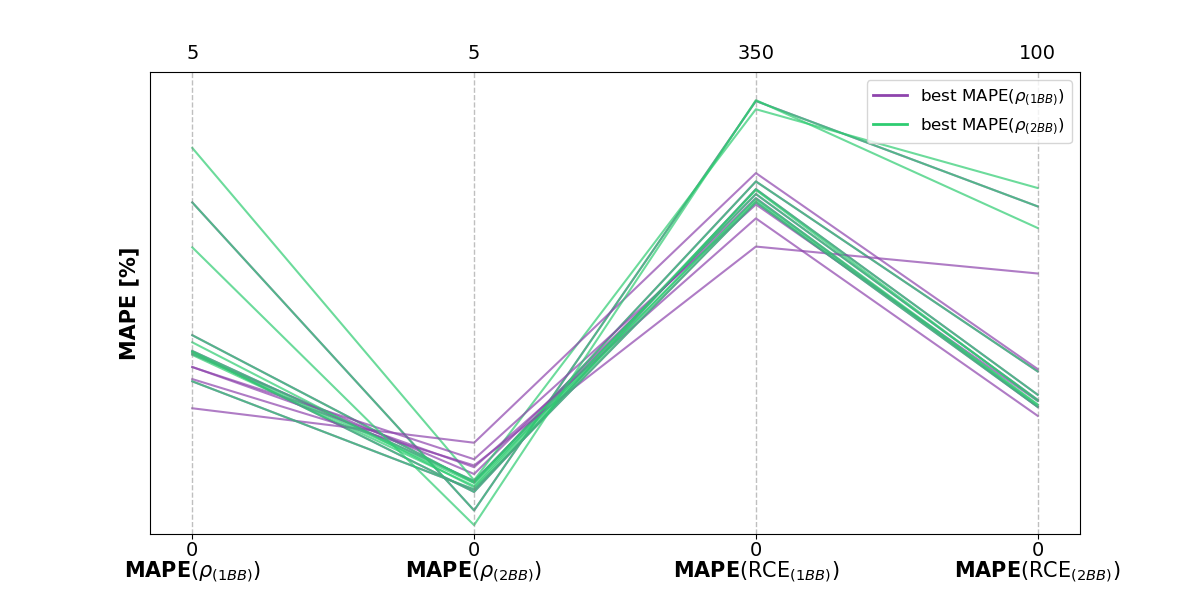
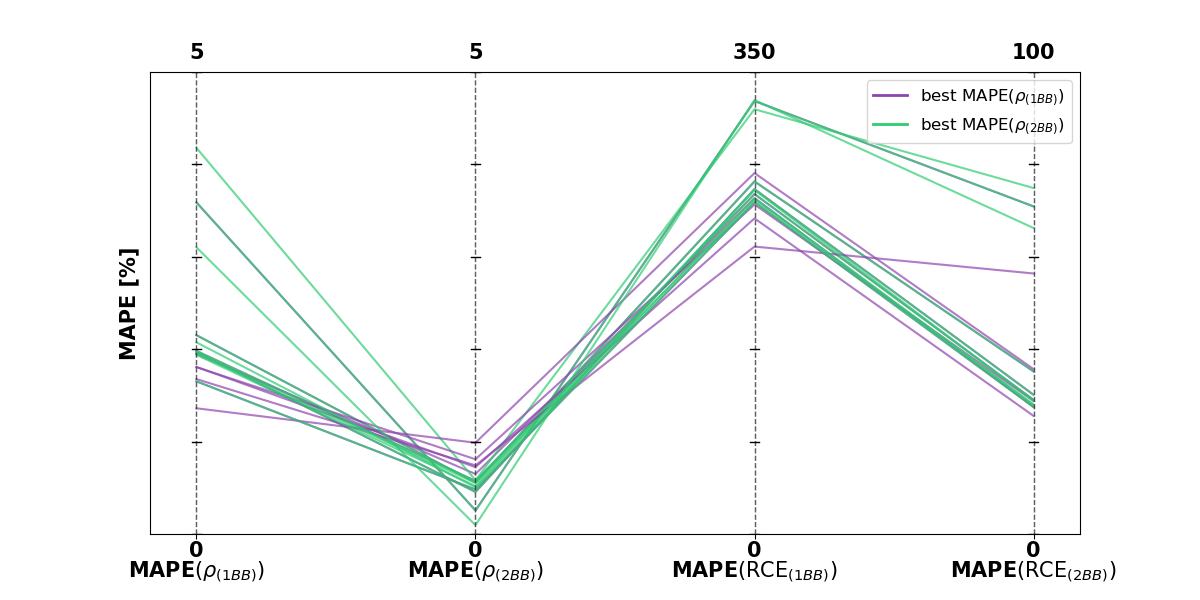
updated figures

diff --git a/40_analysis/21_showBestOptResults.py b/40_analysis/21_showBestOptResults.py
@@ -191,11 +191,20 @@ def mkPlotPC2(df, substance):
   plt.ylim(0, 1)
   plt.yticks([])
   
-   # Annotate per-axis scales
+  # Annotate per-axis scales
+  tick_length = 0.03  # how long the ticks should be
   for i, col in enumerate(value_cols):
+    # Draw the main vertical axis line
+    plt.plot([i, i], [0, 1], color='black', linestyle='--', linewidth=1, alpha=0.5)
+    
+    # Draw ticks at normalized positions (e.g., bottom, middle, top)
+    num_ticks = 6
+    for t in np.linspace(0, 1, num_ticks):
+        plt.plot([i - tick_length/2, i + tick_length/2], [t, t], color='black', linewidth=1)
+        
     lo, hi = y_limits[col]
-    plt.text(i, -0.015, f"{lo}", ha='center', va='top', fontsize=14)
-    plt.text(i, 1.02, f"{hi}", ha='center', va='bottom', fontsize=14)
+    plt.text(i, -0.015, f"{lo}", ha='center', va='top', fontsize=15, fontweight='bold')
+    plt.text(i, 1.02, f"{hi}", ha='center', va='bottom', fontsize=15, fontweight='bold')
   
   legend_elements = [
     Line2D([0], [0], color='#377eb8', lw=2, label='NNR surrog. Models'),
@@ -294,16 +303,28 @@ def mkPlotPC3(df, prop, saveOrShow, substance):
   for xi in x:
     plt.axvline(x=xi, color='gray', linestyle='--', linewidth=1, alpha=0.5)
     
+    
   #plt.xticks(x, value_cols)
   plt.xticks(x, xlbls, fontsize=15, fontweight='bold')
   plt.tick_params(axis='x', pad=15)
   plt.ylim(0, 1)
   plt.yticks([])
+  
   # Annotate per-axis scales
+  tick_length = 0.03  # how long the ticks should be
   for i, col in enumerate(value_cols):
+    # Draw the main vertical axis line
+    plt.plot([i, i], [0, 1], color='black', linestyle='--', linewidth=1, alpha=0.5)
+    
+    # Draw ticks at normalized positions (e.g., bottom, middle, top)
+    num_ticks = 6
+    for t in np.linspace(0, 1, num_ticks):
+        plt.plot([i - tick_length/2, i + tick_length/2], [t, t], color='black', linewidth=1)
+        
     lo, hi = y_limits[col]
-    plt.text(i, -0.015, f"{lo}", ha='center', va='top', fontsize=14)
-    plt.text(i, 1.02, f"{hi}", ha='center', va='bottom', fontsize=14)
+    plt.text(i, -0.015, f"{lo}", ha='center', va='top', fontsize=15, fontweight='bold')
+    plt.text(i, 1.02, f"{hi}", ha='center', va='bottom', fontsize=15, fontweight='bold')
+    
 
   plt.legend(handles=legend_elements, loc='upper right', fontsize=12)
   plt.ylabel("MAPE [%]", fontsize=15, fontweight='bold')
@@ -357,12 +378,12 @@ def mkPlotScatter1(df, saveOrShow, substance):
     plt.scatter(thisX, thisY, color=colors[k], label=thisLBLs[k])
 
   
-  plt.xlabel(xlbl, fontsize=15, fontweight='bold')
-  plt.ylabel(ylbl, fontsize=15, fontweight='bold')
+  plt.xlabel(xlbl, fontsize=20, fontweight='bold')
+  plt.ylabel(ylbl, fontsize=20, fontweight='bold')
   plt.xlim(xlims)
   plt.ylim(ylims)
-  plt.xticks(fontsize=13)
-  plt.yticks(fontsize=13)
+  plt.xticks(fontsize=15)
+  plt.yticks(fontsize=15)
   plt.legend()
   plt.tight_layout()
   
@@ -411,12 +432,12 @@ def mkPlotScatter2(df, saveOrShow, substance):
     plt.scatter(thisX, thisY, color=colors[k], label=thisLBLs[k])
 
   
-  plt.xlabel(xlbl, fontsize=15, fontweight='bold')
-  plt.ylabel(ylbl, fontsize=15, fontweight='bold')
+  plt.xlabel(xlbl, fontsize=20, fontweight='bold')
+  plt.ylabel(ylbl, fontsize=20, fontweight='bold')
   plt.xlim(xlims)
   plt.ylim(ylims)
-  plt.xticks(fontsize=13)
-  plt.yticks(fontsize=13)
+  plt.xticks(fontsize=15)
+  plt.yticks(fontsize=15)
   plt.legend()
   plt.tight_layout()
   
@@ -540,14 +561,14 @@ if __name__ == "__main__":
   #print(f'{dfSummary2Bro}')
   
  
-  #plt = mkPlotPC3(dfSummaryBoth, 'density', saveOrShow, 'both')
-  #plt = mkPlotPC3(dfSummaryBoth, 'RCE', saveOrShow, 'both')
-  #plt = mkPlotPC2(dfSummaryBoth, 'both')
+  plt = mkPlotPC3(dfSummaryBoth, 'density', saveOrShow, 'both')
+  plt = mkPlotPC3(dfSummaryBoth, 'RCE', saveOrShow, 'both')
+  plt = mkPlotPC2(dfSummaryBoth, 'both')
   
-  plt = mkPlotScatter1(dfSummary1Bro, saveOrShow, '1-bromobutane')
-  plt = mkPlotScatter2(dfSummary1Bro, saveOrShow, '1-bromobutane')
-  plt = mkPlotScatter1(dfSummary2Bro, saveOrShow, '2-bromobutane')
-  plt = mkPlotScatter2(dfSummary2Bro, saveOrShow, '2-bromobutane')
+  #plt = mkPlotScatter1(dfSummary1Bro, saveOrShow, '1-bromobutane')
+  #plt = mkPlotScatter2(dfSummary1Bro, saveOrShow, '1-bromobutane')
+  #plt = mkPlotScatter1(dfSummary2Bro, saveOrShow, '2-bromobutane')
+  #plt = mkPlotScatter2(dfSummary2Bro, saveOrShow, '2-bromobutane')
   if saveOrShow == 'show':
     plt.show()
         

diff --git a/40_analysis/26_plotOptedFFPras.py b/40_analysis/26_plotOptedFFPras.py
@@ -93,11 +93,20 @@ def mkPlotPC(df):
   plt.ylim(0, 1)
   plt.yticks([])
   
-   # Annotate per-axis scales
+  # Annotate per-axis scales
+  tick_length = 0.03  # how long the ticks should be
   for i, col in enumerate(value_cols):
+    # Draw the main vertical axis line
+    plt.plot([i, i], [0, 1], color='black', linestyle='--', linewidth=1, alpha=0.5)
+    
+    # Draw ticks at normalized positions (e.g., bottom, middle, top)
+    num_ticks = 6
+    for t in np.linspace(0, 1, num_ticks):
+        plt.plot([i - tick_length/2, i + tick_length/2], [t, t], color='black', linewidth=1)
+        
     lo, hi = y_limits[col]
-    plt.text(i, -0.015, f"{lo}", ha='center', va='top', fontsize=14)
-    plt.text(i, 1.02, f"{hi}", ha='center', va='bottom', fontsize=14)
+    plt.text(i, -0.015, f"{lo}", ha='center', va='top', fontsize=15, fontweight='bold')
+    plt.text(i, 1.02, f"{hi}", ha='center', va='bottom', fontsize=15, fontweight='bold')
   
   legend_elements = [
     Line2D([0], [0], color='#377eb8', lw=2, label='NNR surrog. Models'),
@@ -165,11 +174,20 @@ def mkPlotPC2(df1, df2):
   plt.ylim(0, 1)
   plt.yticks([])
   
-   # Annotate per-axis scales
+  # Annotate per-axis scales
+  tick_length = 0.03  # how long the ticks should be
   for i, col in enumerate(value_cols):
+    # Draw the main vertical axis line
+    plt.plot([i, i], [0, 1], color='black', linestyle='--', linewidth=1, alpha=0.5)
+    
+    # Draw ticks at normalized positions (e.g., bottom, middle, top)
+    num_ticks = 6
+    for t in np.linspace(0, 1, num_ticks):
+        plt.plot([i - tick_length/2, i + tick_length/2], [t, t], color='black', linewidth=1)
+        
     lo, hi = y_limits[col]
-    plt.text(i, -0.015, f"{lo}", ha='center', va='top', fontsize=14)
-    plt.text(i, 1.02, f"{hi}", ha='center', va='bottom', fontsize=14)
+    plt.text(i, -0.015, f"{lo}", ha='center', va='top', fontsize=15, fontweight='bold')
+    plt.text(i, 1.02, f"{hi}", ha='center', va='bottom', fontsize=15, fontweight='bold')
   
   legend_elements = [
     Line2D([0], [0], color='#377eb8', lw=2, label='opt. 1BB separately'),
@@ -298,14 +316,14 @@ if __name__ == "__main__":
   #print(f'{dfSummary1Bro}')
   #print(f'{dfSummary2Bro}')
  
-  #plt = mkPlotPC(dfSummaryBoth)
+  plt = mkPlotPC(dfSummaryBoth)
   #printTbl(dfSummaryBoth)
   
-  #plt = mkPlotPC2(dfSummary1Bro, dfSummary2Bro)
-  printTbl(dfSummary1Bro)
+  plt = mkPlotPC2(dfSummary1Bro, dfSummary2Bro)
+  #printTbl(dfSummary1Bro)
   #printTbl(dfSummary2Bro)
-  #if saveOrShow == 'show':
-  #  plt.show()
+  if saveOrShow == 'show':
+    plt.show()
   
   
   

diff --git a/40_analysis/27_plotParameterSPace.py b/40_analysis/27_plotParameterSPace.py
@@ -117,11 +117,20 @@ def mkPlotPC(df1, df2, prop1, prop2, maxMAPE1, maxMAPE2):
   plt.ylim(0, 1)
   plt.yticks([])
   
-   # Annotate per-axis scales
+  # Annotate per-axis scales
+  tick_length = 0.03  # how long the ticks should be
   for i, col in enumerate(value_cols):
+    # Draw the main vertical axis line
+    plt.plot([i, i], [0, 1], color='black', linestyle='--', linewidth=1, alpha=0.5)
+    
+    # Draw ticks at normalized positions (e.g., bottom, middle, top)
+    num_ticks = 6
+    for t in np.linspace(0, 1, num_ticks):
+        plt.plot([i - tick_length/2, i + tick_length/2], [t, t], color='black', linewidth=1)
+        
     lo, hi = y_limits[col]
-    plt.text(i, -0.015, f"{lo}", ha='center', va='top', fontsize=14)
-    plt.text(i, 1.02, f"{hi}", ha='center', va='bottom', fontsize=14)
+    plt.text(i, -0.015, f"{lo}", ha='center', va='top', fontsize=15, fontweight='bold')
+    plt.text(i, 1.02, f"{hi}", ha='center', va='bottom', fontsize=15, fontweight='bold')
   
   legend_elements = [
     Line2D([0], [0], color=color1, lw=2, label=thisLBL1),

diff --git a/40_analysis/25_plotPR-vs-NNR_resutls.py b/40_analysis/25_plotPR-vs-NNR_resutls.py
@@ -94,11 +94,20 @@ def mkPlotPC2(df, substance):
   plt.ylim(0, 1)
   plt.yticks([])
   
-   # Annotate per-axis scales
+  # Annotate per-axis scales
+  tick_length = 0.03  # how long the ticks should be
   for i, col in enumerate(value_cols):
+    # Draw the main vertical axis line
+    plt.plot([i, i], [0, 1], color='black', linestyle='--', linewidth=1, alpha=0.5)
+    
+    # Draw ticks at normalized positions (e.g., bottom, middle, top)
+    num_ticks = 6
+    for t in np.linspace(0, 1, num_ticks):
+        plt.plot([i - tick_length/2, i + tick_length/2], [t, t], color='black', linewidth=1)
+        
     lo, hi = y_limits[col]
-    plt.text(i, -0.015, f"{lo}", ha='center', va='top', fontsize=14)
-    plt.text(i, 1.02, f"{hi}", ha='center', va='bottom', fontsize=14)
+    plt.text(i, -0.015, f"{lo}", ha='center', va='top', fontsize=15, fontweight='bold')
+    plt.text(i, 1.02, f"{hi}", ha='center', va='bottom', fontsize=15, fontweight='bold')
   
   legend_elements = [
     Line2D([0], [0], color='#377eb8', lw=2, label='NNR surrog. Models'),
